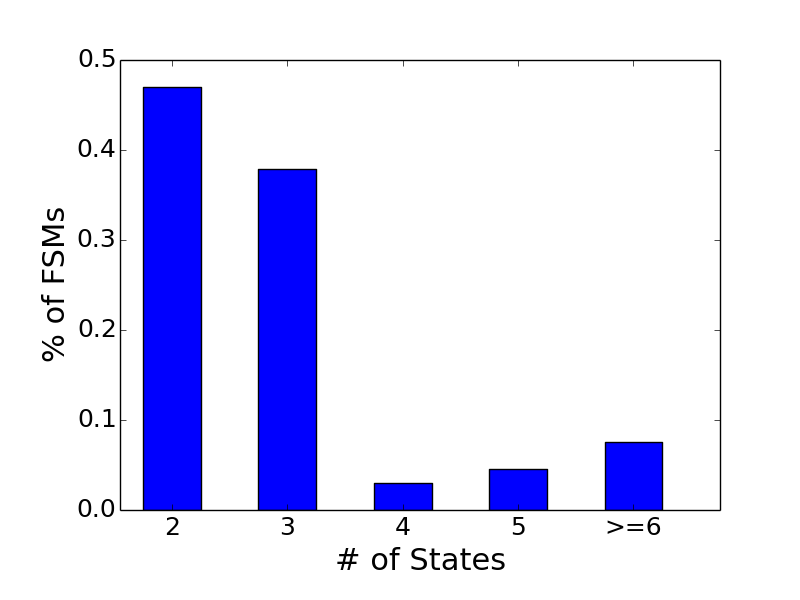
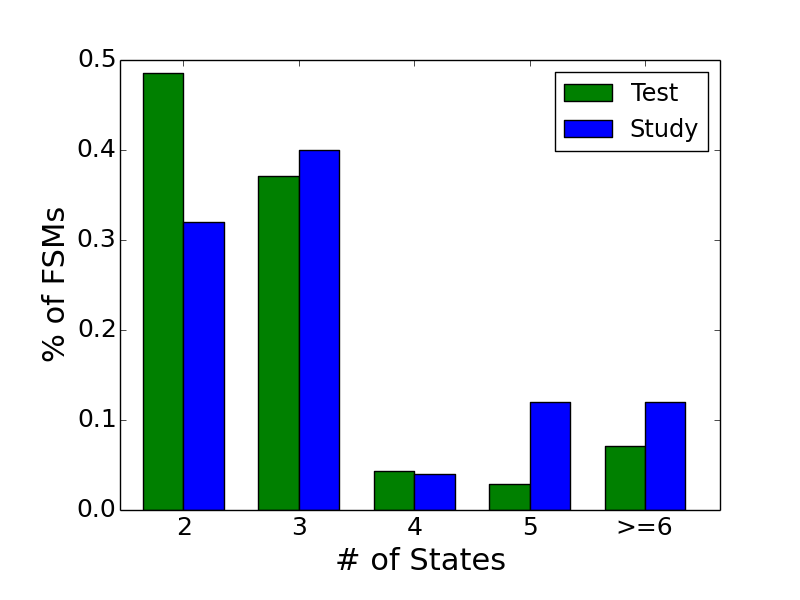
finish the writing for coverage results

diff --git a/section/4_exp.tex b/section/4_exp.tex
@@ -1,6 +1,12 @@
 \section{Experiment}
+\label{sec:exp}
+
+In this section, we will describe how we set up 
+experiments to evaluate \Tool{} (Section~\ref{sec:meth}) 
+and present the experimental results (Section~\ref{sec:results}). 
 
 \subsection{Methodology}
+\label{sec:meth}
 
 \noindent\textbf{Implementation and Platform.} 
 We implement \Tool{} using LLVM-7.0.0~\cite{LLVM}, 
@@ -19,10 +25,10 @@ To evaluate \Tool{}, we collect C/C++ programs from three sources.
 First, we evaluate \Tool{} on two programs collected in a CTF contest~\cite{ctf}, 
 one contains a FSM, and the other one does not. 
 Second, we leverage the DARPA CGC dataset~\cite{CGC}. 
-In total, there are 200 programs in the CGC dataset.
+In total, there are 197 programs in the CGC dataset.
 As discussed in Section~\ref{sec:study}, 
 we already use 40 of them to conduct our empirical study,
-so that we use the remaining 160 programs in our evaluation.
+so that we use the remaining 157 programs in our evaluation.
 Third, we apply \Tool{} to OpenVPN~\cite{openvpn}, 
 which provides an implementation of virtual private network and 
 is included in software packages of every released Linux version. 
@@ -30,20 +36,24 @@ is included in software packages of every released Linux version.
 \input{section/tab-app}
 
 The benchmark information is shown in Table~\ref{tab:benchmark}.
-In total, we use 163 different programs to evaluate \Tool{}.
-All our benchmarks are either real software or 
-simplified programs from real applications. 
-They are either widely-used in the real world or popular in the security community. 
+In total, we use 160 different programs to evaluate \Tool{}.
+Our benchmark set is a representative sample of real-world software, 
+since each program is either a widely-used real application or a simplified program
+from real software. 
+Our benchmark programs are diverse. 
 They cover programs in small, medium and large sizes, 
 with lines of code ranging from 0.3 thousand to more than 100 thousand.  
-We believe that our benchmarks are representative 
+There are more than seven thousand 
+loops inside our benchmark programs and accurately 
+identifying FSMs among the loops is not easy. 
+To sum up, we believe that our benchmarks are good 
 enough to evaluate the effectiveness of \Tool{}.
 
 \noindent\textbf{Evaluation Setting.} 
 For all our benchmark programs, we manually examine all their loops and 
 identify all FSM loops. 
 As shown in Table~\ref{tab:benchmark}, there are in 
-total 66 FSMs.
+total 66 FSM loops.
 Four FSM loops contain two state variables, 
 and all other FMS loops contain exact one state variables.
 Therefore, there are in total 70 FSMs implemented in all our benchmarks.  
@@ -57,31 +67,51 @@ questions regarding the coverage and accuracy of \Tool{}.
 generating false positives. 
 
 \subsection{Experimental Results}
+\label{sec:results}
 
 \input{section/tab-exp}
 
 \noindent\textbf{Coverage.}
 As shown in Table~\ref{tab:exp}, \Tool{} successfully identifies 
-all the {\color{red} XXX} FSM loops 
+all the 66 FSM loops 
 from the benchmarks. Since there are four FSM loops containing 
 two state variables and \Tool{} constructs a FSM for every identified state variable, 
-there are in total {\color{red} XXX} extracted FSMs. 
-\Tool{} does not have any false negative.
+there are in total 70 extracted FSMs. 
+\Tool{} has \textbf{no} false negative.
+
+We then further inspect the characteristics of the identified FSMs.
+For most of the FSMs, their state variables are local variables.
+There are only three FSMs with a global variable as its state variable. 
+Most FSMs use a standalone integer (or enumeration) variable as its state variable,
+and only three FSMs use a \texttt{struct} field as its state variable.  
+This result shows that \Tool{} can identify state variables implemented in various ways
+and developers tend to use a local, standalone, integer variable to 
+represent the state of a FSM.
+
 
 \input{section/fig-sv}
 
-We then further inspect the characteristics of the identified FSMs. 
-For most of the cases, state variables are local variable either in integer type or in 
-enumeration type. There are {\color{red} XXX} FSMs with a global integer variable
-as its state variable. For {\color{red} XXX} FSMs, 
-their state variables are a field of a \texttt{struct}. 
-Second, what are the possible values for 
-Figure~\ref{fig:sv} shows the percentage of the FSMs for different state numbers. 
+Figure~\ref{fig:sv} shows the percentage of the identified FSMs
+for different state numbers. 
 More than 80\% of FSMs contain either two states or three states. 
 The percentage drops significantly when the state number is larger than three. 
 There are two FSMs containing 11 states. 
 These two FSMs have the largest state numbers among all the identified FSMs. 
-For most of the cases,
+On average, one identified FSM has 3.02 possible states. 
+Figure~\ref{fig:sv} also shows how the percentage of FSMs distributes 
+across different state numbers 
+for the 25 studied FSMs. 
+The average state number for the studied FSMs is 3.84.
+We use chi-square goodness of fit test to compare 
+the two distribution in Figure~\ref{fig:sv}. 
+The testing result shows that there is no significant 
+difference between the two distributions 
+under 99\% confidence level. 
+Our study results in Section~\ref{sec:study} are general enough to be 
+extended to other data sets. 
+
+
+
 
 \noindent\textbf{Accuracy.}
 \Tool{} reports two false positives when analyzing CGC programs. 

diff --git a/figure/sv.py b/figure/sv.py
@@ -5,20 +5,25 @@ from matplotlib.ticker import MultipleLocator, FormatStrFormatter
 
 if __name__ == '__main__':
 
-	#rawList = [31, 25, 2, 3, ]
+	
 	svList = ['2', '3', '4', '5', '>=6']
-	numList = [31, 25, 2, 3, 5]
 
-	totalNum = sum(numList)
+	#{2: 34, 3: 26, 4: 3, 5: 2, 6: 1, 7: 1, 9: 1, 11: 2},
+	numTestList = [34, 26, 3, 2, 5]
+	#{2: 8, 3: 10, 4: 1, 5: 3, 9: 1, 11: 2},
+	numStudyList = [8, 10, 1, 3, 3]
+
 
 	XList = svList
-	YList = [ num * 1.0 / totalNum for num in numList]
+	YTestList = [ num * 1.0 / sum(numTestList) for num in numTestList]
+	YStudyList = [num * 1.0 / sum(numStudyList) for num in numStudyList]
 
 	
 	ind = np.arange(5)
-	width = 0.5
+	width = 0.35
 	fig, ax = plt.subplots()
-	rects = ax.bar(ind, YList, width, color='b')
+	rects1 = ax.bar(ind, YTestList, width, color='g', label='Test')
+	rects2 = ax.bar(ind + width, YStudyList, width, color='b', label='Study')
 
 	datemin = 0 - 0.2
 	datemax = 5 #+ 0.2
@@ -46,7 +51,9 @@ if __name__ == '__main__':
 	plt.gcf().subplots_adjust(bottom=0.15)
 	plt.gcf().subplots_adjust(left=0.15)
 
-	plt.xticks(ind+width/2, XList)
+	plt.legend(fontsize='x-large')
+
+	plt.xticks(ind + width, XList)
 
 	#plt.show()
 	fig.savefig('sv-dist.pdf')

diff --git a/figure/ht.py b/figure/ht.py
@@ -1,0 +1,20 @@
+import scipy
+
+
+
+if __name__=='__main__':
+	numTestList = [34, 26, 3, 2, 5]
+	numStudyList = [8, 10, 1, 3, 3]
+
+	#print numTestList
+	#print [sum(numTestList) * 0.32, sum(numTestList) * 0.4, sum(numTestList) * 0.04, sum(numTestList) * 0.12, sum(numTestList) * 0.12]
+
+	print numStudyList
+	print [sum(numStudyList) * 0.48, sum(numStudyList) * 0.37, sum(numStudyList) * 0.04 , sum(numStudyList) * 0.03 , sum(numStudyList) * 0.07]
+
+
+	#print [ num * 1.0 / sum(numTestList) for num in numTestList]
+	#print [ num * 1.0 / sum(numStudyList) for num in numStudyList]
+
+
+	#print scipy.stats.chisquare(numTestList, f_exp=numStudyList)

diff --git a/section/tab-app.tex b/section/tab-app.tex
@@ -9,7 +9,7 @@
 \hline
 \textbf{Source}   & \textbf{\# programs} & \textbf{avg. KLOC} & \textbf{\# loops} & \textbf{\# FSM loops} \\ \hline \hline 
 CTF     & 2              &  0.3            &    19       &   1         \\ \hline 
-CGC     & 160            &  7.1            &    6607     &   59        \\ \hline
+CGC     & 157            &  7.1            &    6607     &   59        \\ \hline
 OpenVPN & 1              &  120            &    512      &    6        \\ \hline
 \end{tabular}
 }

diff --git a/section/fig-sv.tex b/section/fig-sv.tex
@@ -4,7 +4,7 @@
 \begin{center}
 \centerline{\includegraphics[width=2.5in]{figure/sv-dist.pdf}}
 %\vspace{-0.05in}
-\mycaption{fig:sv}{How the number of states distributes across all identified FSMs.}
+\mycaption{fig:sv}{How the percentage of FSMs distributes across different state numbers.}
 {}
 \end{center}
 \end{minipage}

diff --git a/main.tex b/main.tex
@@ -91,6 +91,8 @@
 \end{center}
 
 
+
+
 \bigskip
 \end{@twocolumnfalse}
 ]
